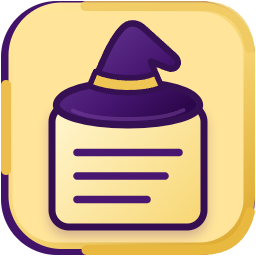
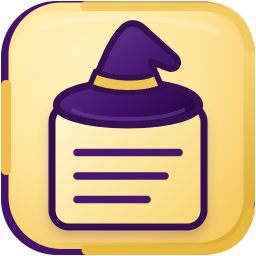
提升界面图标层次与质感

Changed region(s): [[0.0312, 0.3125, 0.9688, 0.9688], [0.125, 0.0312, 0.6562, 0.3438]]

diff --git a/src/components/Logo.tsx b/src/components/Logo.tsx
@@ -1,8 +1,8 @@
-// 界面里的 logo 用的是 resources 下的托盘简化版母版：
-// 头部那个只有 24~32px，完整版的胡须和鼻子在这个尺寸下只会糊成一团。
+// 界面顶部使用完整母版，保留渐变、投影和立体边框；
+// Windows 系统托盘仍单独使用 logo-tray.svg 的高辨识度简化版。
 // 直接内联 SVG 而不是 <img src>：省掉一次资源请求，也不用担心
 // file:// 下 CSP 的 img-src 'self' 怎么算。
-import markup from '@res/logo-tray.svg?raw'
+import markup from '@res/logo.svg?raw'
 
 interface Props {
   className?: string

diff --git a/src/components/Header.tsx b/src/components/Header.tsx
@@ -25,7 +25,7 @@ export function Header({
 }: Props) {
   return (
     <div className="drag-region flex items-center gap-3 px-3.5 pt-3 pb-2.5">
-      <Logo className="no-drag size-8 shrink-0 rounded-[10px] shadow-lg shadow-brand-500/25" />
+      <Logo className="no-drag size-8 shrink-0 rounded-[10px] shadow-md shadow-black/15 dark:shadow-black/30" />
 
       <div className="no-drag group relative flex-1">
         <Search className="pointer-events-none absolute top-1/2 left-3 size-4 -translate-y-1/2 text-black/35 dark:text-white/35" />
